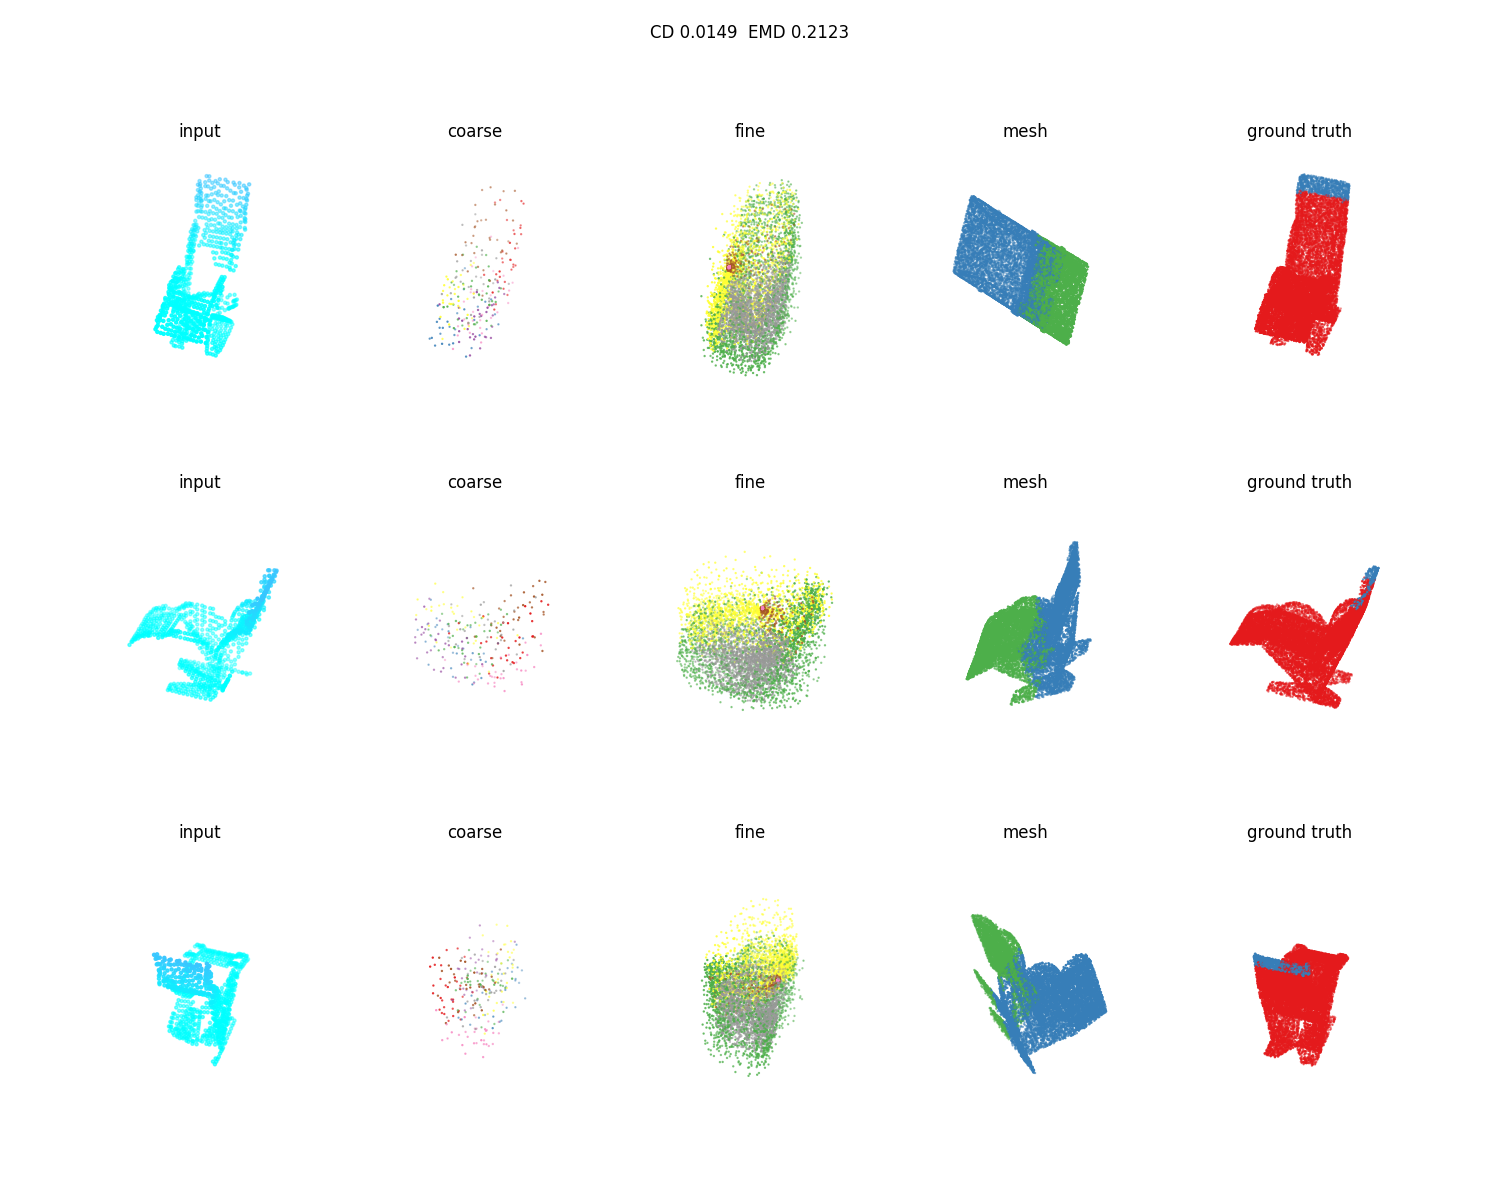
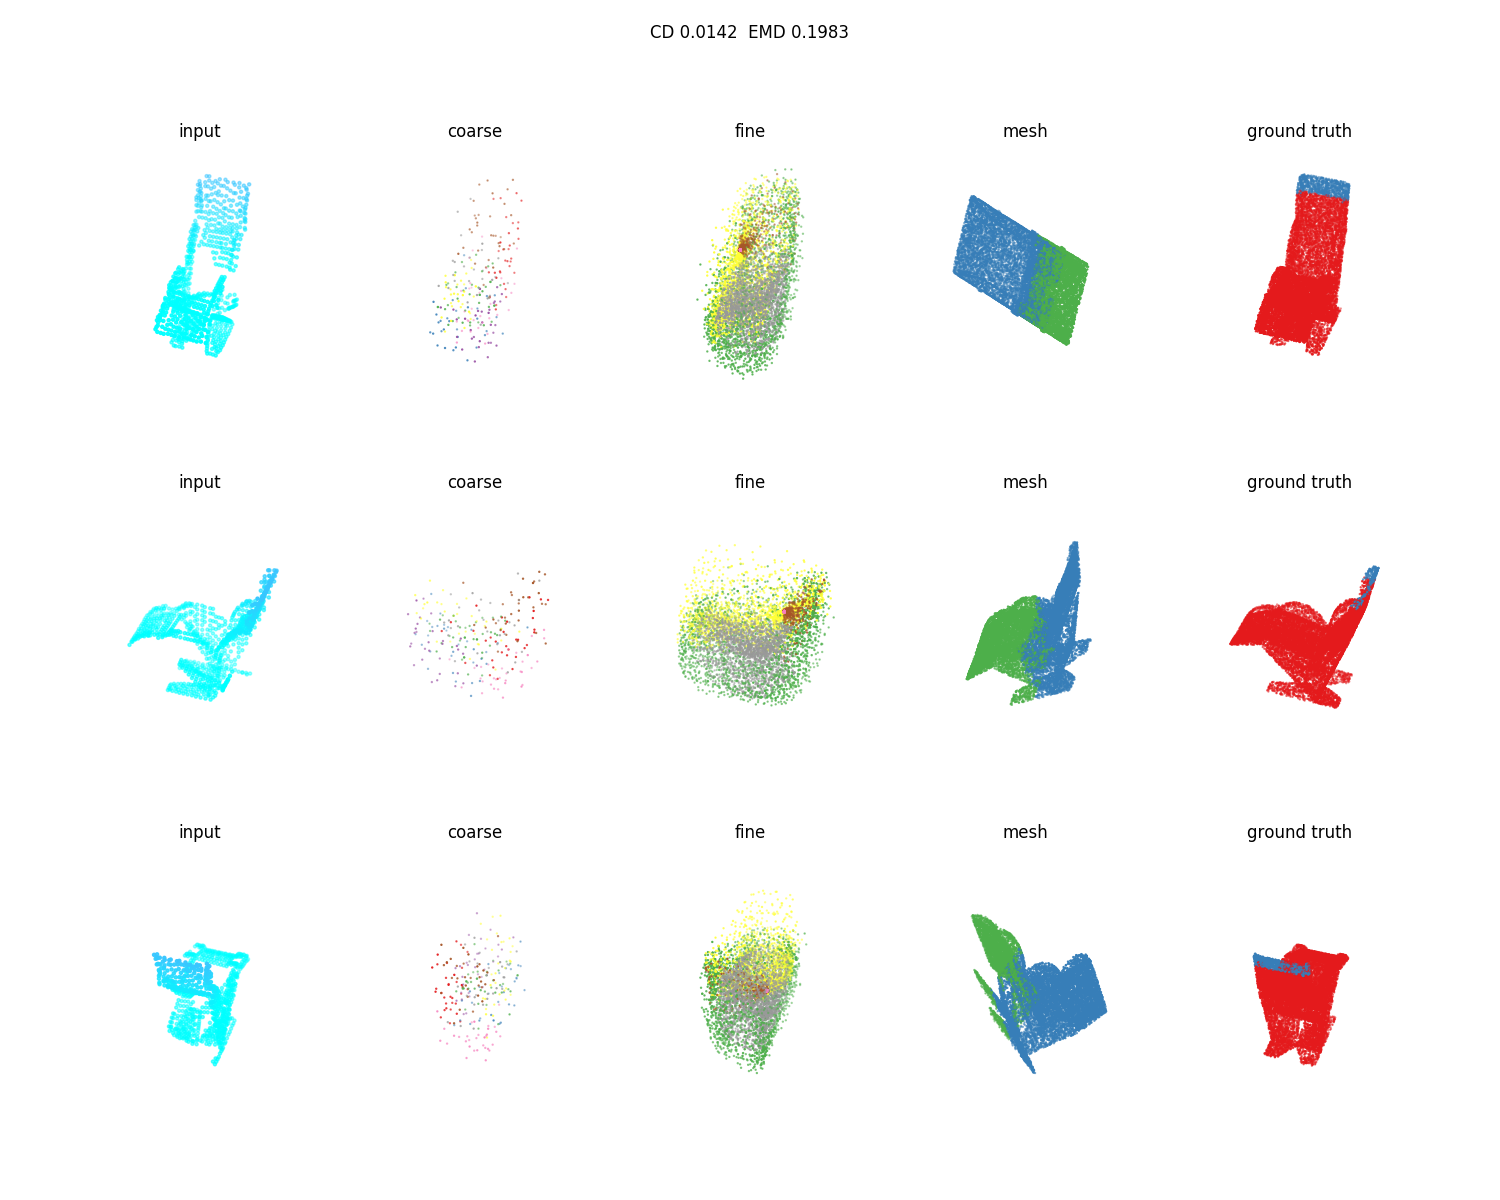
add plots

diff --git a/models/pcn_reg.py b/models/pcn_reg.py
@@ -128,9 +128,9 @@ class Model:
         p_can_feat = tf.nn.softmax(self.canonical[:,:,3:3+self.channels], -1)
         p_coar_samp = tf.reduce_mean(p_coar_feat, [1])
         # p_fine_samp = tf.reduce_mean(p_fine_feat, [1])
-        entropy = tf.nn.relu(tf.log(self.channels*1.0) + tf.reduce_mean(tf.reduce_sum(p_coar_samp * tf.log(p_coar_samp), [1]), [0]))
+        # entropy = tf.nn.relu(tf.log(self.channels*1.0) + tf.reduce_mean(tf.reduce_sum(p_coar_samp * tf.log(p_coar_samp), [1]), [0]))
         # entropy += tf.nn.relu(tf.log(self.channels*1.0) + tf.reduce_mean(tf.reduce_sum(p_fine_samp * tf.log(p_fine_samp), [1]), [0]))
-        entropy += tf.reduce_mean(tf.nn.softmax_cross_entropy_with_logits(labels=p_can_feat, logits=p_coar_feat))
+        entropy = tf.reduce_mean(tf.nn.softmax_cross_entropy_with_logits(labels=p_can_feat, logits=p_coar_feat))
         loss_coarse = chamfer(coarse[:,:,0:3], gt[:,:,0:3])
         loss_coarse += chamfer(self.canonical[:,:,0:3], self.gt_can[:,:,0:3])
         """
@@ -162,7 +162,8 @@ class Model:
         add_train_summary('train/fine_loss', loss_fine)
         update_fine = add_valid_summary('valid/fine_loss', loss_fine)
 
-        loss = alpha * loss_coarse + loss_fine + entropy
+        # loss = alpha * loss_coarse + loss_fine + entropy
+        loss = loss_coarse + entropy
         add_train_summary('train/loss', loss)
         update_loss = add_valid_summary('valid/loss', loss)
 
